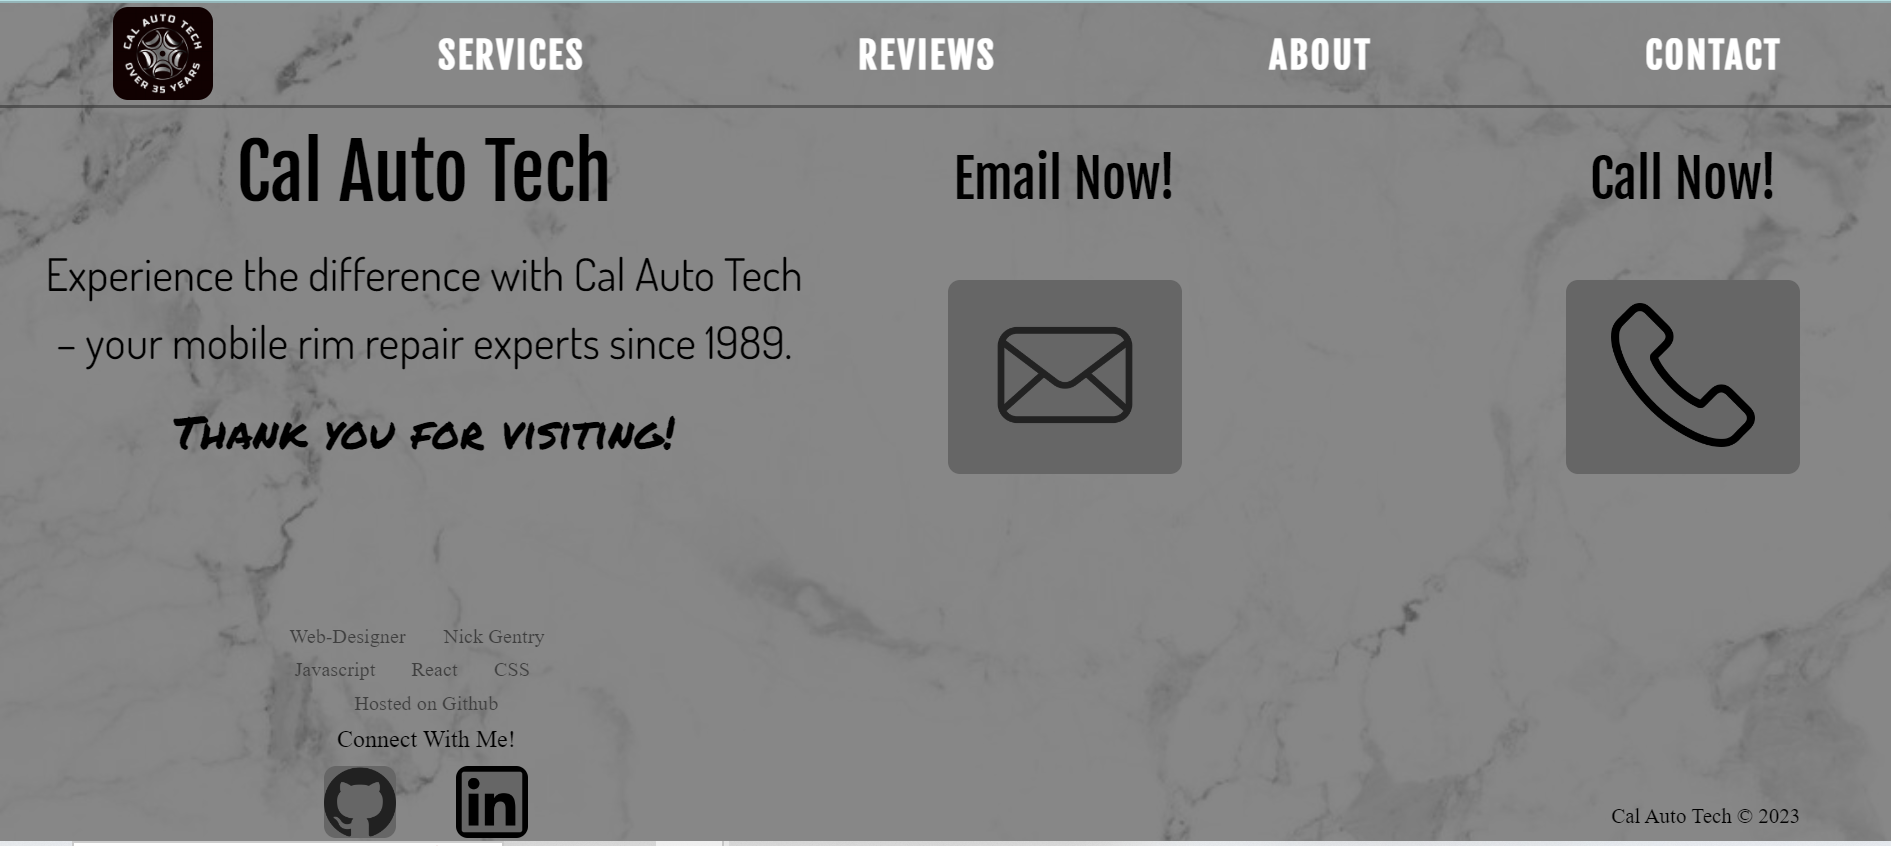
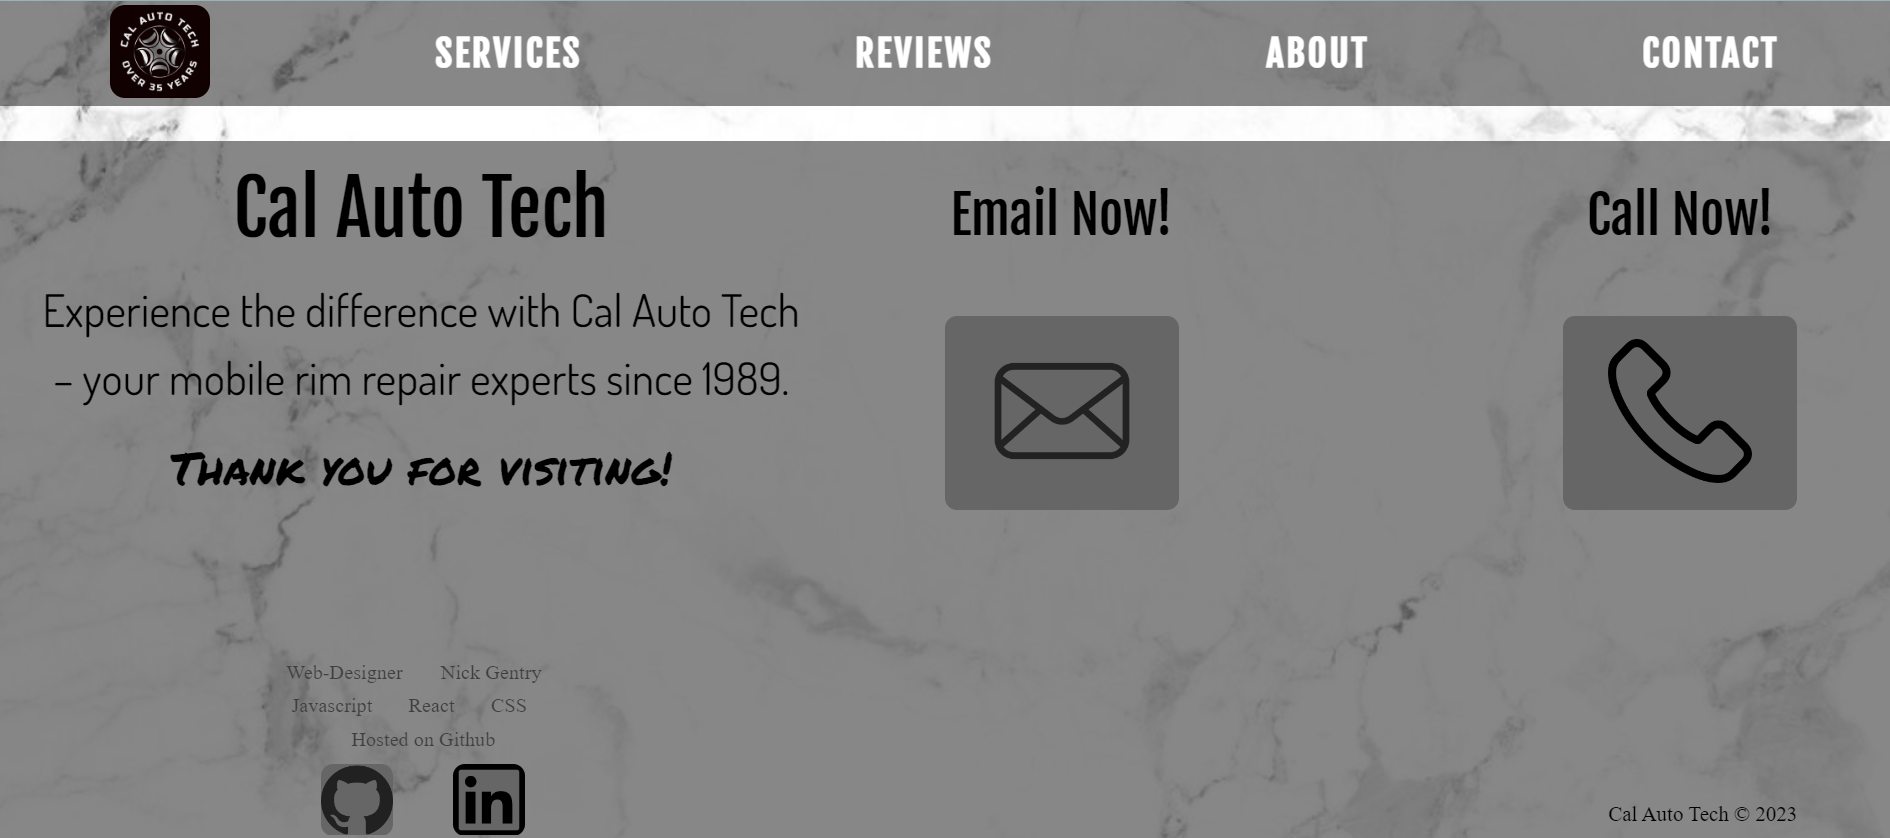
updated readme pics

diff --git a/frontend/src/Components/Footer/Footer.jsx b/frontend/src/Components/Footer/Footer.jsx
@@ -71,9 +71,6 @@ const Footer = () => {
                                 </span>
                             </div>
                             <div className="connect-with-me-wrapper">
-                                <h1 className='c-w-m-header'>
-                                    Connect With Me!
-                                </h1>
                                 <div className="git-linked-cont">
                                     <a 
                                         target="_blank" 
@@ -189,9 +186,6 @@ const Footer = () => {
                         </span>
                     </div>
                     <div className="connect-with-me-wrapper">
-                        <h1 className='c-w-m-header'>
-                            Connect With Me!
-                        </h1>
                         <div className="git-linked-cont">
                             <a 
                                 rel="noreferrer" 

diff --git a/frontend/src/Components/Footer/Footer.css b/frontend/src/Components/Footer/Footer.css
@@ -159,14 +159,12 @@
     display: flex;
     gap: 40px;
 }
-.c-w-m-header {
-    text-align: center;
-}
 .connect-with-me-wrapper{
     display: flex;
     flex-direction: column;
     align-items: center;
     gap: 10px;
+    margin-top: 3%;
 }
 .mobile-phone{
     display: none;
@@ -235,9 +233,6 @@
     }
     .host{
         font-size: 30px;
-    }
-    .c-w-m-header{
-        font-size: 36px;
     }
     .connect-with-me-wrapper{
         gap: 20px;
